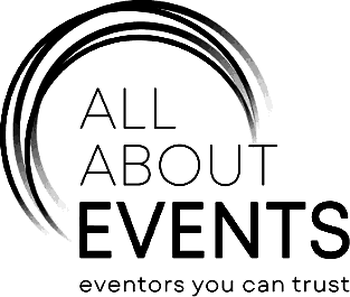
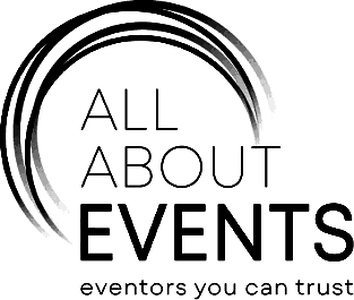
Apply finish review fixes and add preview script
Section rules, placeholder labels on Pulse, monochrome logo sizing,
draw-in held until the hero figure is visible, equal consent buttons,
brand-scale leads, static mobile header, 36px heading floor.

Claude-Session: https://claude.ai/code/session_0192NofjR7QhCsXGJXSMjcYt

diff --git a/src/styles/global.css b/src/styles/global.css
@@ -29,7 +29,7 @@
 
   /* Brand type scale */
   --display: clamp(2.5rem, 1.35rem + 3.9vw, 4.5rem); /* hero only: 40 → 72px */
-  --h: clamp(2rem, 1.6rem + 1.3vw, 2.625rem); /* 42px */
+  --h: clamp(2.25rem, 1.95rem + 0.8vw, 2.625rem); /* 42px, 36px floor on phones */
   --sub: 1.375rem; /* 22px */
   --body: 1rem; /* 16 / 21 */
   --note: 0.75rem; /* 12 / 16 */
@@ -182,7 +182,7 @@ p { text-wrap: pretty; }
 
 /* Section frame: full-width top rule, heading in the left third. */
 .section { padding-block: var(--section) 0; }
-.section > .wrap > .grid { border-top: 1px solid var(--black); padding-top: 1.25rem; }
+.section > .wrap.grid { border-top: 1px solid var(--black); padding-top: 1.25rem; }
 .section-head { grid-column: 1 / span 4; padding-right: var(--gap); }
 .section-body { grid-column: 5 / -1; }
 @media (max-width: 60rem) {

diff --git a/src/content.config.ts b/src/content.config.ts
@@ -10,6 +10,8 @@ const pulse = defineCollection({
     date: z.coerce.date(),
     author: z.string().optional(),
     draft: z.boolean().default(false),
+    // Marks design-review stand-ins so listings label them.
+    placeholder: z.boolean().default(false),
   }),
 });
 

diff --git a/scripts/mono-logos.py b/scripts/mono-logos.py
@@ -6,20 +6,22 @@ import numpy as np
 
 SRC = 'brand/clients/'
 # mode 'dark': ink sits on a light ground; 'light': ink sits on a dark ground;
-# 'knockout': coloured shapes become ink and dark marks inside them become holes.
+# 'knockout': coloured shapes become ink and dark marks inside them become holes;
+# 'lum': only dark marks are ink, light colour fills drop to the page.
+# scale: optical size correction after area normalisation.
 # soft: how much faint ink (anti-aliasing, pale fills) to drop.
 CFG = {
-    'adecco': ('adecco.webp', 'dark', 0.25),
-    'the-christmas-factory': ('the-christmas-factory.webp', 'dark', 0.35),
-    'dreamstar': ('dreamstar.png', 'dark', 0.35),
-    'all-about-events': ('all-about-events.png', 'light', 0.18),
-    'koilakos-carpark': ('koilakos-carpark.jpg', 'knockout', 0.12),
-    'easy-service-maragopoulos': ('easy-service-maragopoulos.png', 'knockout', 0.2),
-    'oceansouth': ('oceansouth.jpg', 'knockout', 0.35),
+    'adecco': ('adecco.webp', 'dark', 0.25, 1.0),
+    'the-christmas-factory': ('the-christmas-factory.webp', 'dark', 0.35, 1.2),
+    'dreamstar': ('dreamstar.png', 'dark', 0.35, 0.95),
+    'all-about-events': ('all-about-events.png', 'light', 0.18, 1.2),
+    'koilakos-carpark': ('koilakos-carpark.jpg', 'knockout', 0.12, 1.0),
+    'easy-service-maragopoulos': ('easy-service-maragopoulos.png', 'knockout', 0.2, 1.0),
+    'oceansouth': ('oceansouth.jpg', 'lum', 0.2, 1.05),
 }
 TARGET_AREA = 26000 * 4  # equal optical area, at 2x display density
 
-for name, (fn, mode, soft) in CFG.items():
+for name, (fn, mode, soft, scale) in CFG.items():
     a = np.asarray(Image.open(SRC + fn).convert('RGBA')).astype(float) / 255
     rgb, alpha = a[..., :3], a[..., 3:]
     rgb = rgb * alpha if mode == 'light' else rgb * alpha + (1 - alpha)
@@ -27,6 +29,8 @@ for name, (fn, mode, soft) in CFG.items():
     sat = rgb.max(-1) - rgb.min(-1)  # coloured marks count as ink
     if mode == 'dark':
         ink = np.clip((1 - lum) + sat * 0.9, 0, 1)
+    elif mode == 'lum':
+        ink = np.clip((0.62 - lum) / 0.3, 0, 1)
     elif mode == 'light':
         ink = np.clip(lum + sat * 0.5, 0, 1)
     else:
@@ -39,7 +43,7 @@ for name, (fn, mode, soft) in CFG.items():
     im = Image.fromarray((out * 255).astype('uint8'), 'RGBA')
     im = im.crop(im.getchannel('A').point(lambda v: 255 if v > 40 else 0).getbbox())
     w, h = im.size
-    s = min((TARGET_AREA / (w * h)) ** 0.5, 300 / h, 520 / w)
+    s = min((TARGET_AREA / (w * h)) ** 0.5 * scale, 300 / h, 520 / w)
     im = im.resize((max(1, round(w * s)), max(1, round(h * s))), Image.LANCZOS)
     im.save(f'public/clients/{name}.png', optimize=True)
     print(name, im.size)

diff --git a/src/content/pulse/attribution-answers-the-wrong-question.md b/src/content/pulse/attribution-answers-the-wrong-question.md
@@ -3,6 +3,7 @@ title: Most attribution models answer the wrong question
 description: Attribution tells you who was present when a sale happened. Budget decisions need to know what would have happened without the spend.
 date: 2026-09-10
 author: DataHustle
+placeholder: true
 ---
 
 *Placeholder article for design review. [TO CONFIRM]*

diff --git a/src/content/pulse/consent-mode-v2-what-changed.md b/src/content/pulse/consent-mode-v2-what-changed.md
@@ -3,6 +3,7 @@ title: "Consent Mode v2: what changed in your data"
 description: Since consent became a signal rather than a switch, part of your reporting is modelled. Leadership should know which part.
 date: 2026-08-21
 author: DataHustle
+placeholder: true
 ---
 
 *Placeholder article for design review. [TO CONFIRM]*
